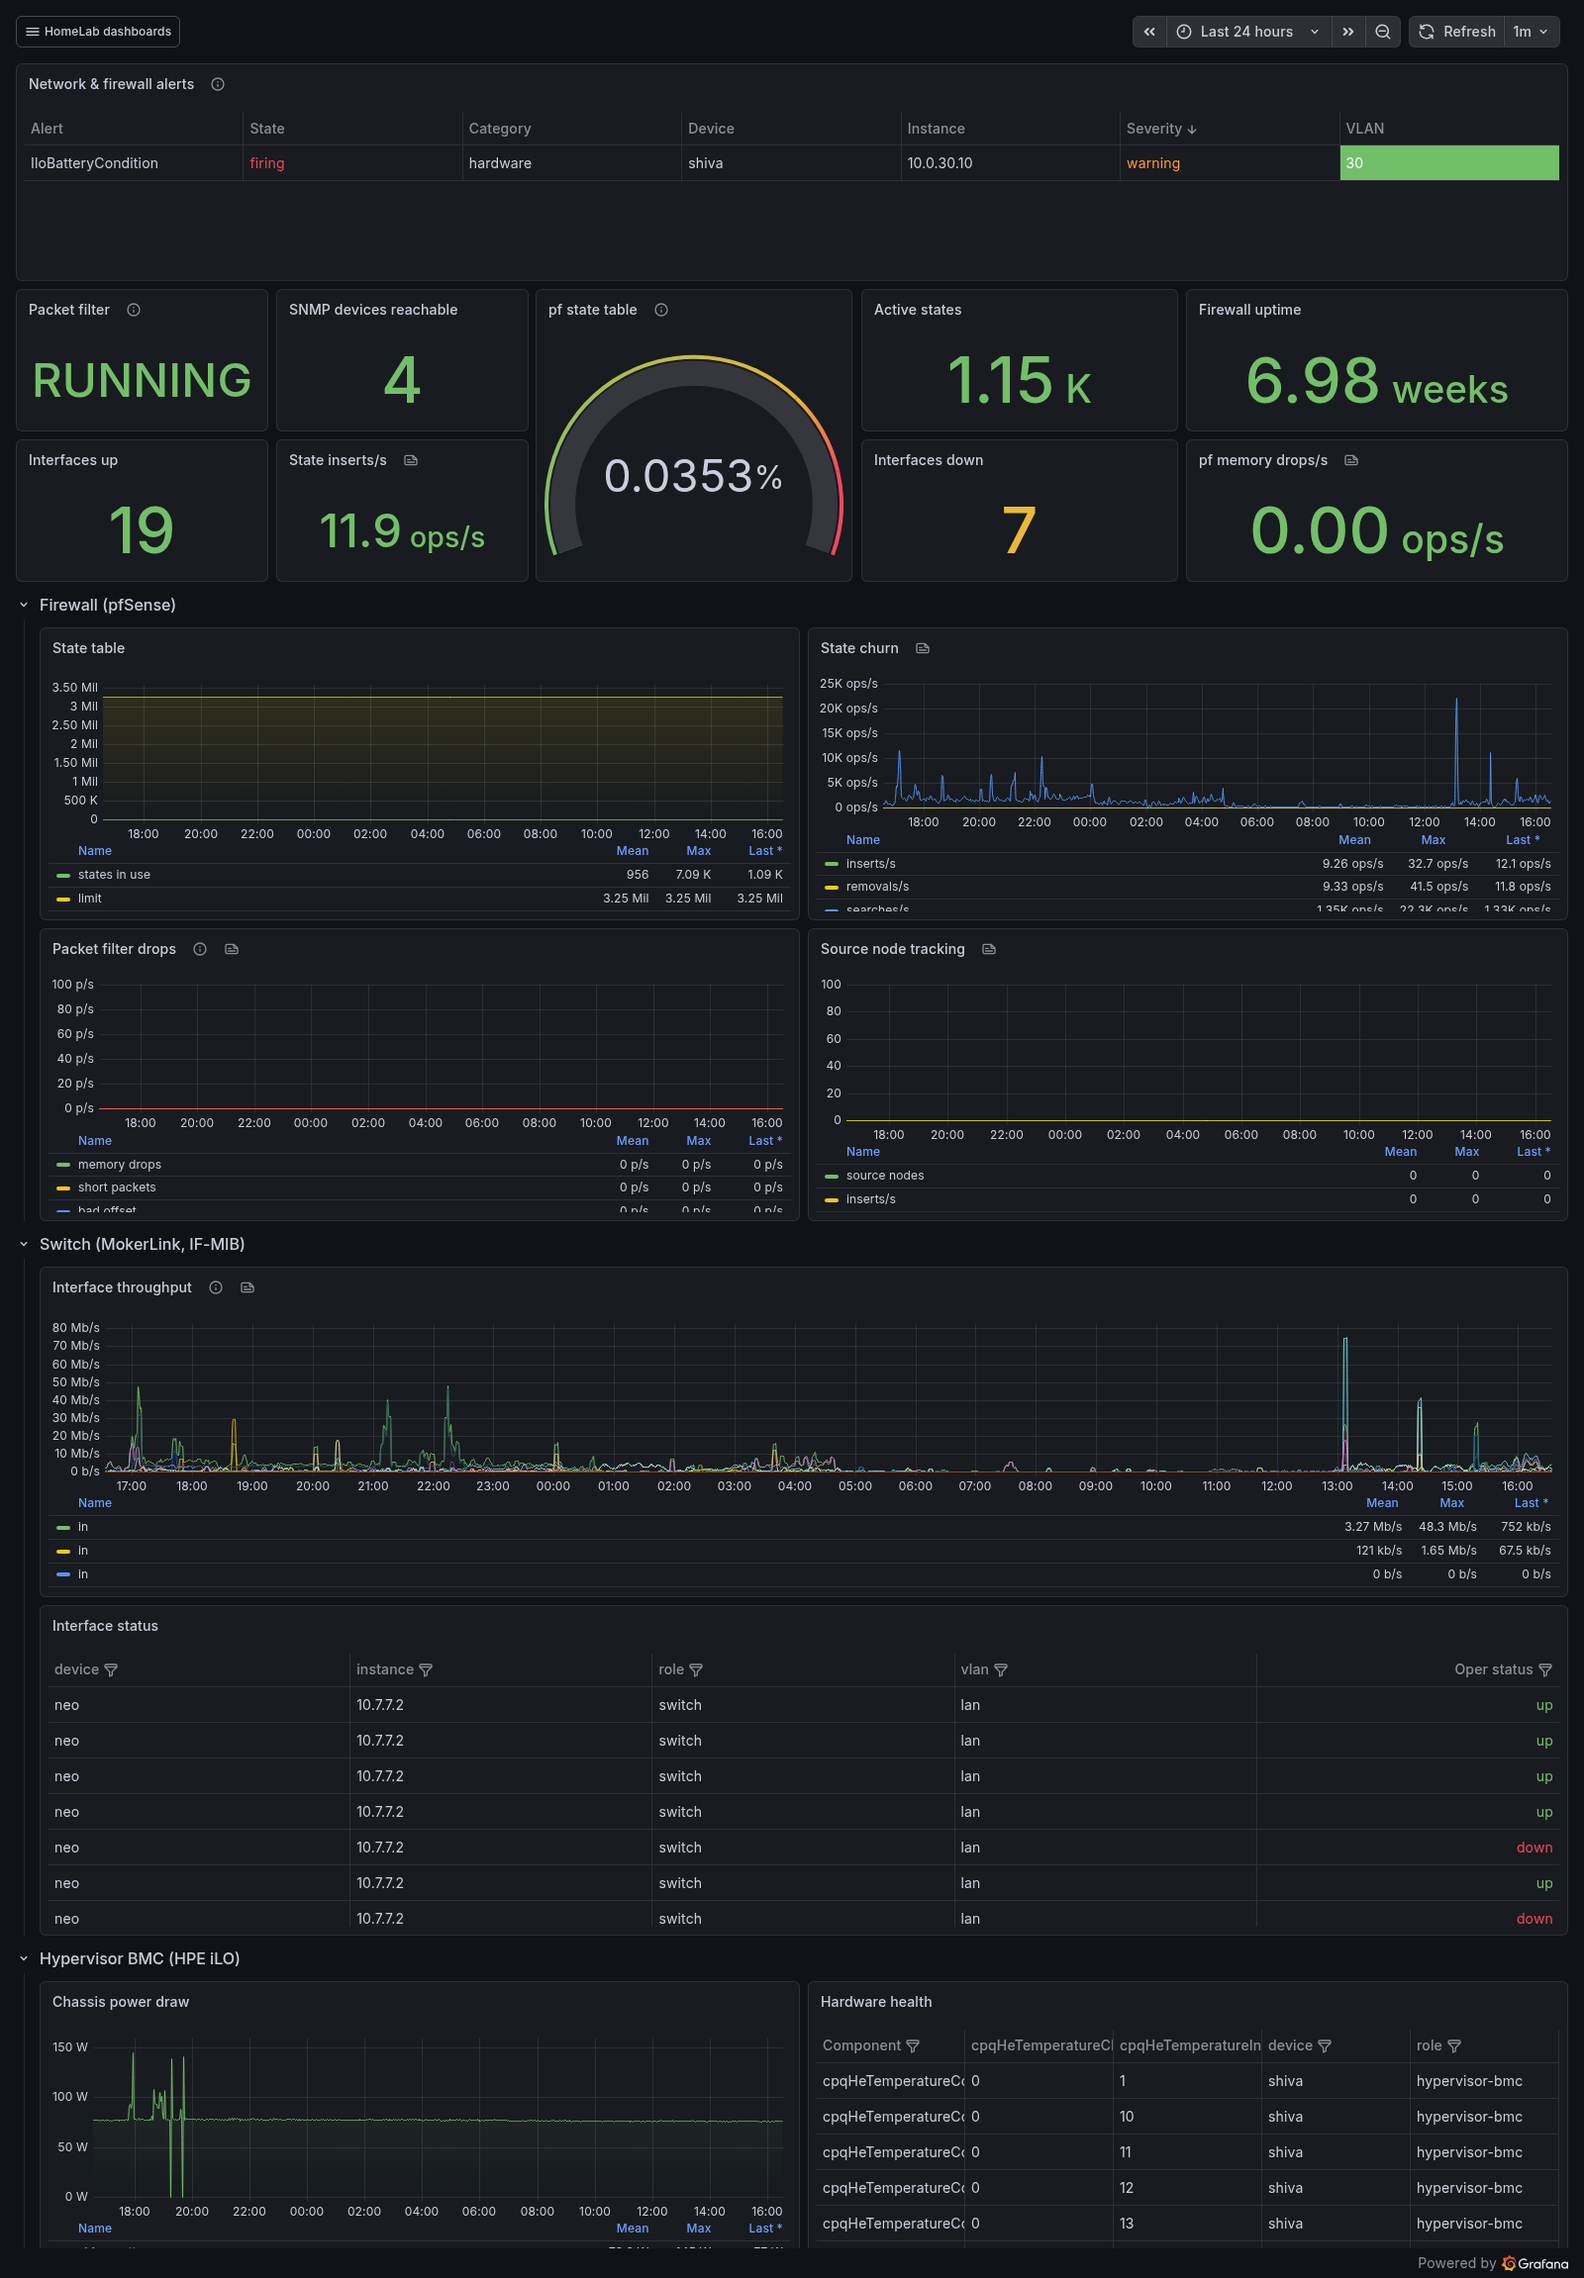
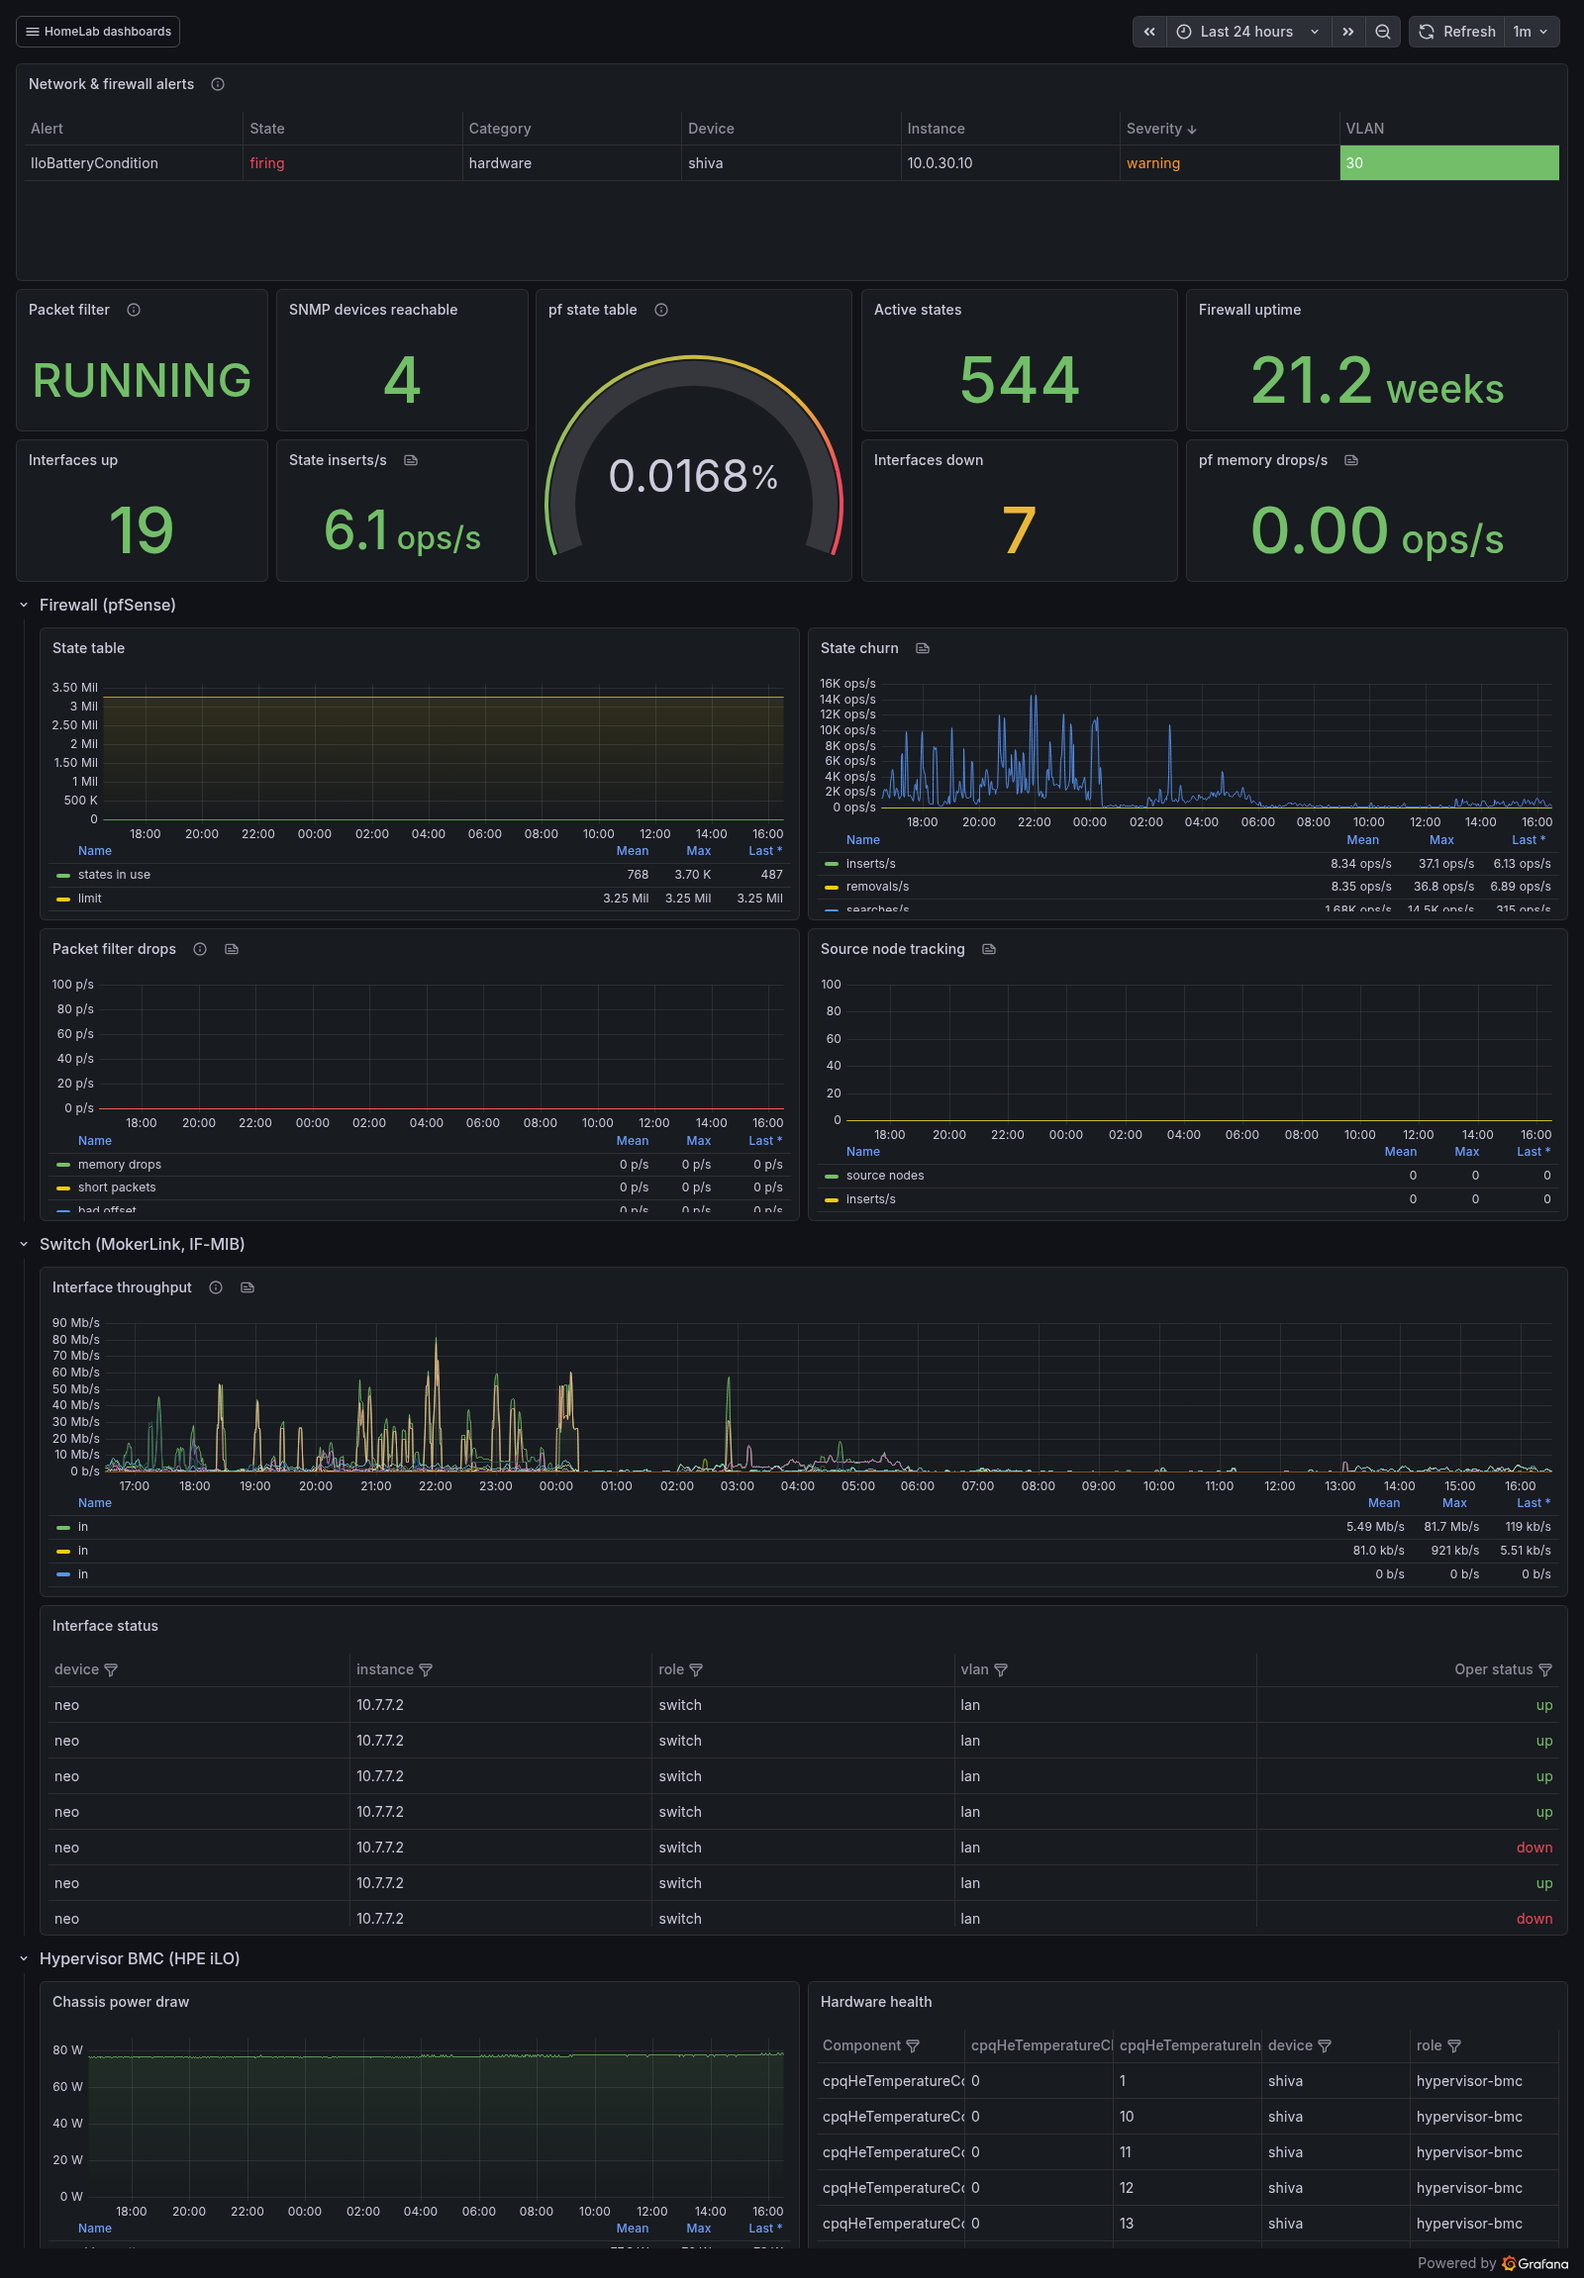
docs(images): publish the four screenshots from a clean window
The captures were blocked on the window, not on the tooling. #62 fixed three
collection faults on the afternoon of 2026-08-21, and `make screenshots` shoots
`now-24h`, so every image taken that day pictured its own outage: a 14-hour hole
in the host dashboard, 22 of 24 hours empty on the Docker one.

A one-shot timer re-ran the capture at 2026-08-22 16:30, past the point where a
full 24 hours of clean collection sat behind it. All four render with no gaps
and pass the checklist in docs/images/README.md — RFC1918 addresses only, no
MACs, no WAN IP, and a Container inventory panel showing only the three
allowlisted fields after d1965f1.

network-snmp.png and ups-power.png are replaced rather than left at their #115
versions. All four now come from one run, so they are comparable to each other
and a gap in one would be visible against the rest.

Two things visible in them are real and deliberately kept: IloBatteryCondition
firing on shiva (#76), and the `renderer` container in two Docker legends, which
exists only while a capture is running.

The root README's screenshot block goes live, and the Makefile comment claiming
five PNGs catches up with #108 dropping the Logs dashboard.

Closes #12

diff --git a/docs/images/README.md b/docs/images/README.md
@@ -2,31 +2,33 @@
 
 Dashboard screenshots go here and are referenced from the root `README.md`.
 
-They are deliberately absent rather than faked — a mocked-up dashboard image in
-a monitoring repository is worse than none, because it cannot be checked against
-the JSON that produced it.
+Every one is a real render of the real stack. A mocked-up dashboard image in a
+monitoring repository is worse than none, because it cannot be checked against
+the JSON that produced it — so an image that cannot honestly be captured is left
+out rather than illustrated.
 
 ## What is here now
 
-Two of the four, not four. `network-snmp.png` and `ups-power.png` pass the
-checklist at the bottom of this file. `host-overview.png` and
-`docker-containers.png` do not yet, and are absent rather than committed with a
-note apologising for them:
+All four, captured in a single run on 2026-08-22 over a 24-hour window. One run
+rather than four afternoons: a set shot at the same moment is comparable, and a
+gap in one of them is visible against the others.
 
-| File | Why it is not here |
-| --- | --- |
-| `host-overview.png` | A 14-hour hole, 02:00 to 16:00, where the agent was down. Half the panels are a flat line — the exact thing "The window matters" below warns about. |
-| `docker-containers.png` | cAdvisor only started reporting correctly in [#62](https://github.com/Gerrrt/HomeLab/pull/62), so 22 of the 24 hours are empty. |
+Which file holds which dashboard is in the table under "Capturing them" below,
+because that pairing is defined in the capture script rather than here.
 
-Both are a re-shoot, not a repair: run `make screenshots` again once the stack
-has a clean day behind it. Tracked in
-[#12](https://github.com/Gerrrt/HomeLab/issues/12).
+Two things in them are real and should not be tidied away on the next capture.
+`network-snmp.png` shows `IloBatteryCondition` firing on `shiva` — that is a
+genuine hardware fault, tracked in
+[#76](https://github.com/Gerrrt/HomeLab/issues/76), and a screenshot of a stack
+with nothing wrong would be the less honest picture. `docker-containers.png`
+carries a `renderer` series in two legends: that is the `capture` profile
+container taking the screenshot, which exists only for the duration of a
+capture, which is why the inventory below it lists six containers and not seven.
 
-The Container inventory panel on the Docker dashboard used to publish the
-absolute path of `compose.yaml` — and so a username — because it excluded
-fields by name and cAdvisor kept adding new ones. It now filters to an
-allowlist. That was caught by this checklist working, which is the argument for
-having it.
+The Container inventory panel used to publish the absolute path of
+`compose.yaml` — and so a username — because it excluded fields by name and
+cAdvisor kept adding new ones. It now filters to an allowlist. That was caught
+by this checklist working, which is the argument for having it.
 
 ## Capturing them
 
@@ -53,7 +55,9 @@ drift:
 Height is derived per dashboard from its own JSON, so adding a panel makes the
 screenshot taller instead of pushing the new panel out of frame.
 
-Then uncomment the screenshot block in the root `README.md`.
+Overwrite the existing files in place. The root `README.md` references them
+by name, so a re-shoot needs no edit there — but it does need the checklist
+at the bottom of this file running over it again before it is committed.
 
 ### The window matters
 

diff --git a/README.md b/README.md
@@ -192,10 +192,27 @@ $ make help
   ...
 ```
 
-<!-- Dashboard screenshots go here once the stack has real data worth showing.
-     `make screenshots` captures them; docs/images/README.md lists the
-     filenames, and says why the Logs dashboard is deliberately not among
-     them. -->
+## Dashboards
+
+Rendered from the running stack by `make screenshots`, over a 24-hour window.
+Four of the five provisioned dashboards are here; `docs/images/README.md`
+explains why the Logs dashboard is deliberately not among them.
+
+![Host Overview dashboard: CPU, memory, load, storage and network for every host
+running an Alloy agent, with a table of firing host alerts across the
+top.](docs/images/host-overview.png)
+
+![Docker Containers dashboard: per-container CPU, memory, network and filesystem
+writes from cAdvisor, alongside restart counts, CPU throttling and a container
+inventory.](docs/images/docker-containers.png)
+
+![Network & Firewall dashboard: pfSense pf state table and packet filter drops,
+MokerLink switch interface throughput and link status, and HPE iLO chassis power
+draw and hardware health.](docs/images/network-snmp.png)
+
+![UPS & Power dashboard: APC power source, output load, input and output voltage
+and runtime, under a banner explaining that every battery figure is fabricated
+because no battery pack is fitted.](docs/images/ups-power.png)
 
 ## What runs it
 
